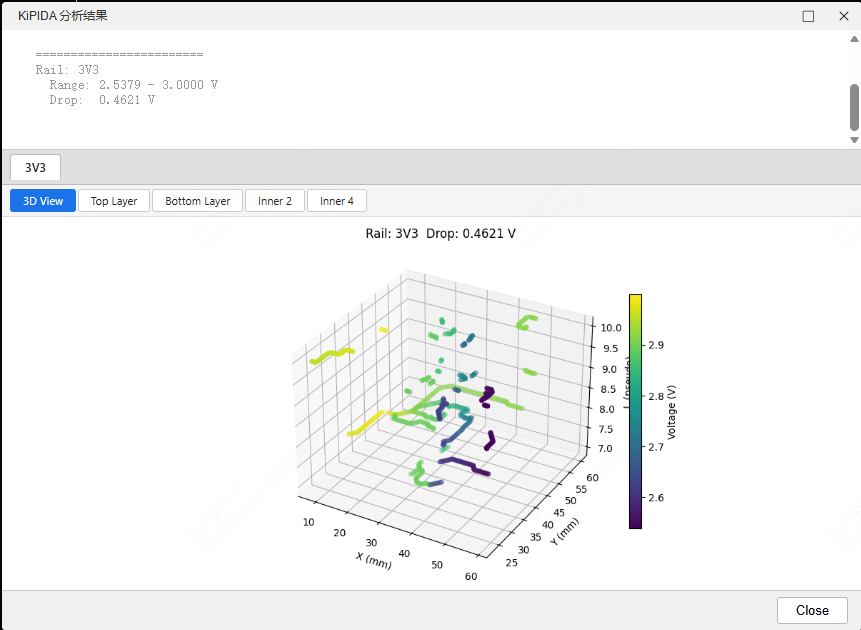
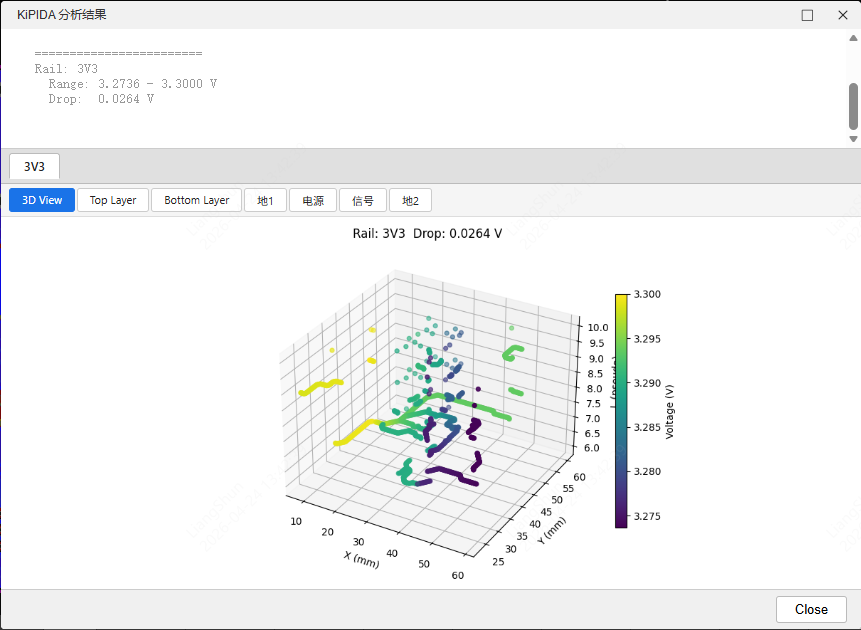
fix: correct mil-to-mm unit conversion and lower default mesh resolution to 0.1mm

diff --git a/ui/config.html b/ui/config.html
@@ -117,7 +117,7 @@
 
 <div class="bottom">
   <label>Mesh Resolution (mm):</label>
-  <input type="number" id="mesh-resolution" value="0.5" min="0.05" max="2" step="0.05">
+  <input type="number" id="mesh-resolution" value="0.1" min="0.05" max="2" step="0.05">
   <label style="margin-left:8px">Max Drop %:</label>
   <input type="number" id="max-drop" value="5" min="1" max="100" step="1" style="width:50px">
   <div class="bottom-right">
@@ -417,7 +417,7 @@
 
   // ── Run / Cancel ──────────────────────────────────────────
   function runAnalysis() {
-    const meshResolution = parseFloat(document.getElementById('mesh-resolution').value) || 0.5;
+    const meshResolution = parseFloat(document.getElementById('mesh-resolution').value) || 0.1;
     const rails = allNets.map(net => {
       const cfg = railConfig[net.net];
       const sources = cfg.rows.filter(r => r.role === 'SOURCE').map(r => ({

diff --git a/src/convert.ts b/src/convert.ts
@@ -166,8 +166,10 @@ export class PcbDataConverter {
       if (!addedIds.has(startNode.id)) { nodes.push(startNode); addedIds.add(startNode.id); }
       if (!addedIds.has(endNode.id)) { nodes.push(endNode); addedIds.add(endNode.id); }
 
-      const length = this.calculateLength(track.x1, track.y1, track.x2, track.y2);
-      const area = track.width * this.DEFAULT_THICKNESS;
+      // 坐标单位是 mil，转换为 mm（1 mil = 0.0254 mm）
+      const MIL_TO_MM = 0.0254;
+      const length = this.calculateLength(track.x1, track.y1, track.x2, track.y2) * MIL_TO_MM;
+      const area = track.width * this.DEFAULT_THICKNESS;  // width 已是 mm 单位
       const resistance = (this.COPPER_RESISTIVITY * length) / area;
 
       // 创建电阻

diff --git a/kipida-service/main.py b/kipida-service/main.py
@@ -79,7 +79,7 @@ class KipidaInput(BaseModel):
     connections: List[Connection]
     sources: List[Source] = []
     loads: List[Load] = []
-    mesh_resolution: Optional[float] = 0.5
+    mesh_resolution: Optional[float] = 0.1
     metadata: Optional[Metadata] = None
 
 
@@ -185,7 +185,7 @@ def build_mesh_and_solve(data: KipidaInput) -> Dict[str, float]:
     # 4. 添加电阻边（按 mesh_resolution 插值，单位 mil）
     import math as _math
     MIL_TO_MM = 0.0254
-    res_mm = (data.mesh_resolution or 0.5)
+    res_mm = (data.mesh_resolution or 0.1)
     res_mil = res_mm / MIL_TO_MM
     next_node_id = len(unique_nodes)
 
